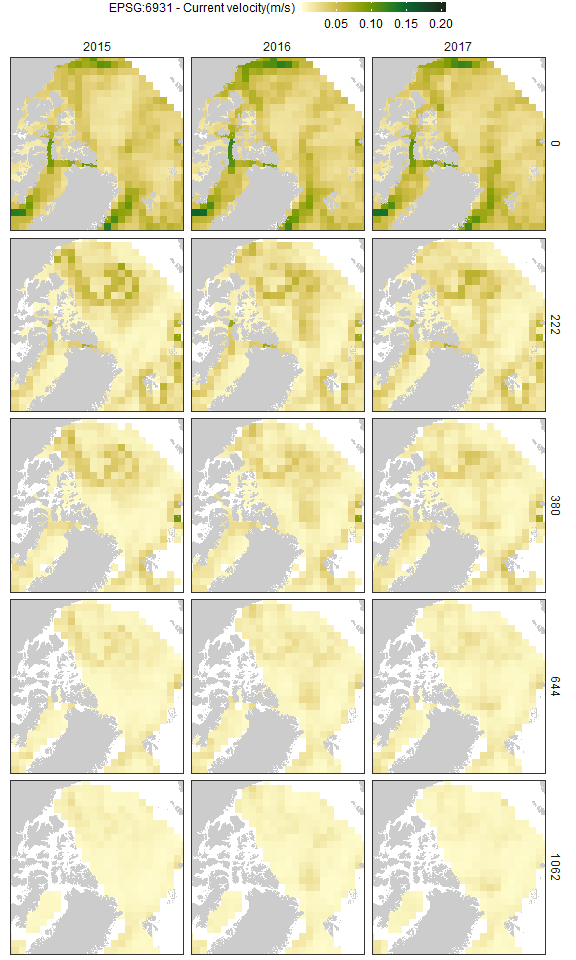
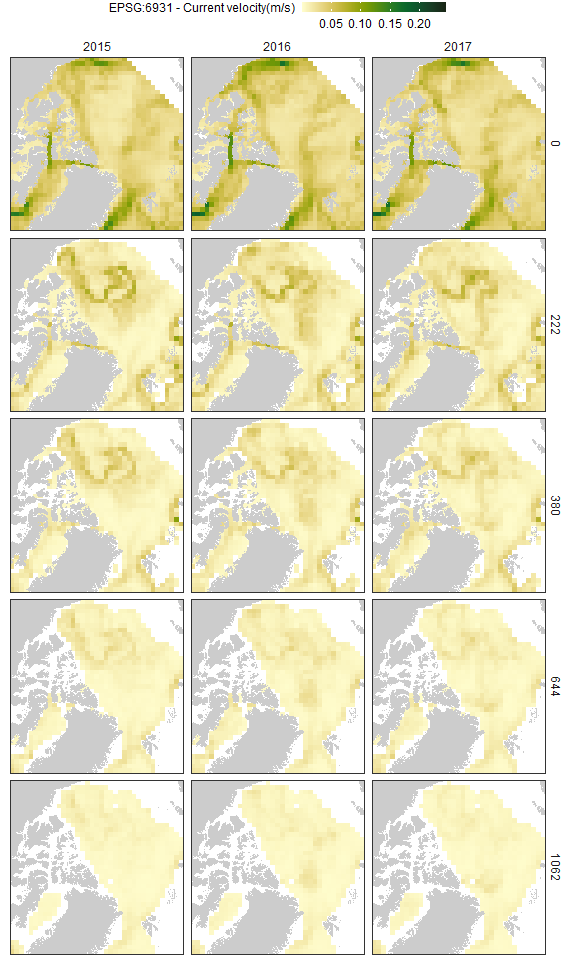
Change cell resolution to 100 km^2

diff --git a/PanArctic_DSL_acoustics.md b/PanArctic_DSL_acoustics.md
@@ -1,7 +1,7 @@
 PanArctic DSL - Acoustic gridding
 ================
 [Pierre Priou](mailto:pierre.priou@mi.mun.ca)
-2022/02/24 at 16:31
+2022/04/20 at 12:02
 
 # Package loading
 
@@ -149,7 +149,7 @@ More info on this projection can be found on the [NSIDC
 website](https://nsidc.org/data/ease/).
 
 ``` r
-cell_res <- 150 # Cell resolution in km
+cell_res <- 100 # Cell resolution in km
 arctic_laea <- raster(extent(-2700, 2700, -2700, 2700), crs = "EPSG:6931") # Seaice projection
 projection(arctic_laea) <- gsub("units=m", "units=km", projection(arctic_laea)) # Convert proj unit from m to km
 res(arctic_laea) <- c(cell_res, cell_res) # Define the 100 km cell resolution
@@ -245,7 +245,7 @@ More info on this projection can be found on the [NSIDC
 website](https://nsidc.org/data/ease/).
 
 ``` r
-cell_res <- 25 # Cell resolution in km
+cell_res <- 100 # Cell resolution in km
 arctic_sv_laea <- raster(extent(-2700, 2700, -2700, 2700), crs = "EPSG:6931") # Seaice projection
 projection(arctic_sv_laea) <- gsub("units=m", "units=km", projection(arctic_sv_laea)) # Convert proj unit from m to km
 res(arctic_sv_laea) <- c(cell_res, cell_res) # Define the 100 km cell resolution

diff --git a/PanArctic_DSL_remote_sensing.md b/PanArctic_DSL_remote_sensing.md
@@ -1,7 +1,7 @@
 PanArctic DSL - Remote sensing
 ================
 [Pierre Priou](mailto:pierre.priou@mi.mun.ca)
-2022/04/20 at 11:51
+2022/04/20 at 12:09
 
 # Package loading
 
@@ -215,7 +215,7 @@ website](https://nsidc.org/data/ease/). Because “raw” sea ice data has a
 projection (150 km \* 150 km).
 
 ``` r
-cell_res <- 150 # Cell resolution in km
+cell_res <- 100 # Cell resolution in km
 arctic_laea <- raster(extent(-2700, 2700, -2700, 2700), crs = "EPSG:6931") # Seaice projection
 projection(arctic_laea) <- gsub("units=m", "units=km", projection(arctic_laea)) # Convert proj unit from m to km
 res(arctic_laea) <- c(cell_res, cell_res) # Define the 100 km cell resolution
@@ -511,7 +511,7 @@ phy %>%
 Data is projected on the EPSG:6931 projection.
 
 ``` r
-cell_res <- 150 # Cell resolution in km
+cell_res <- 100 # Cell resolution in km
 arctic_laea <- raster(extent(-2700, 2700, -2700, 2700), crs = "EPSG:6931") # Seaice projection
 projection(arctic_laea) <- gsub("units=m", "units=km", projection(arctic_laea)) # Convert proj unit from m to km
 res(arctic_laea) <- c(cell_res, cell_res) # Define the 100 km cell resolution

diff --git a/PanArctic_DSL_CTD.md b/PanArctic_DSL_CTD.md
@@ -1,7 +1,7 @@
 PanArctic DSL - CTD
 ================
 [Pierre Priou](mailto:pierre.priou@mi.mun.ca)
-2022/02/23 at 11:27
+2022/04/20 at 12:08
 
 # Package loading
 
@@ -119,7 +119,7 @@ More info on this projection can be found on the [NSIDC
 website](https://nsidc.org/data/ease/).
 
 ``` r
-cell_res <- 150 # Cell resolution in km
+cell_res <- 100 # Cell resolution in km
 arctic_laea <- raster(extent(-2700, 2700, -2700, 2700), crs = "EPSG:6931") # Seaice projection
 projection(arctic_laea) <- gsub("units=m", "units=km", projection(arctic_laea)) # Convert proj unit from m to km
 res(arctic_laea) <- c(cell_res, cell_res) # Define the 100 km cell resolution
